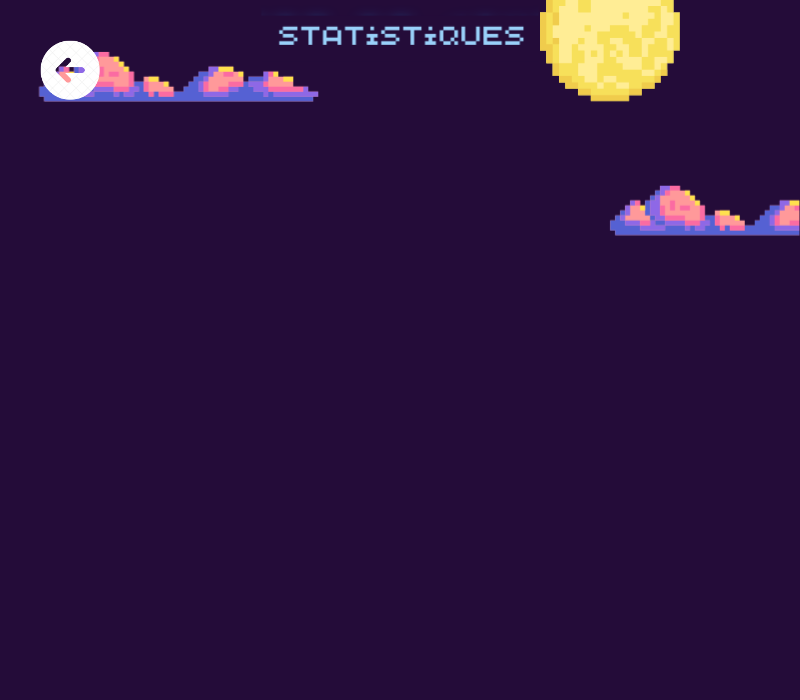
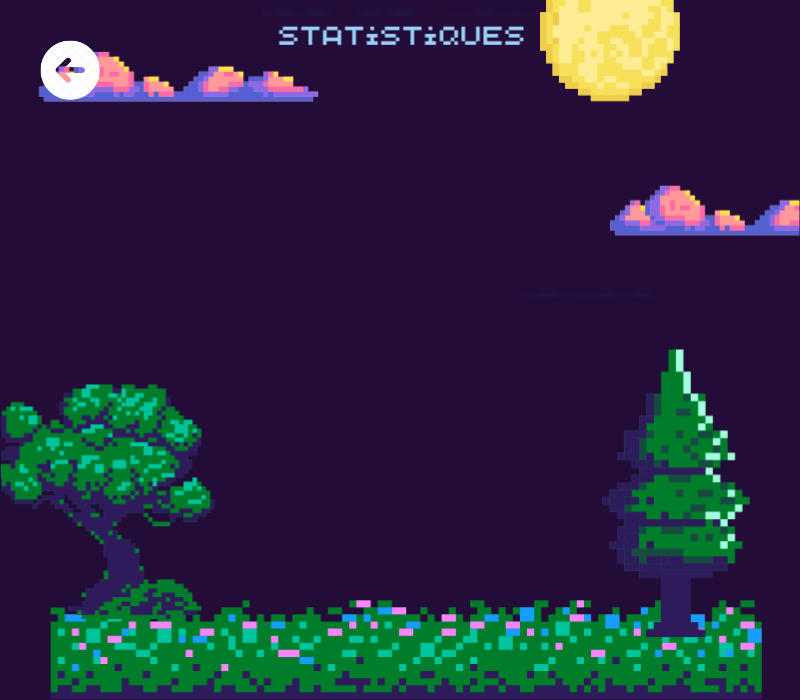
récupération des données pour l'affichage du menu et fonction de moyenne pour le menu avec le design

Changed region(s): [[0.0, 0.48, 0.9688, 1.0]]

diff --git a/classe/jeu/interfaces.py b/classe/jeu/interfaces.py
@@ -5,6 +5,8 @@ import pygame
 from classe.visuel import image, couleur, rectangle, texte
 from classe.jeu import plateau, de
 from classe.personnage import joueur
+from decimal import Decimal
+
 
 class Interface:
     """La classe Interface est une classe qui permet de gérer les pages."""
@@ -127,25 +129,7 @@ class Interface:
         else:
             self.get_liste_joueur().pop(joueur.get_id())
     
-    def Page_demarrage(self, nb_tour, 
-                                    nb_pv_j1_final,
-                                    nb_pv_j2_final ,
-                                    nb_pv_j3_final,
-                                    nb_pv_j4_final,
-                                    nb_cle_j1,
-                                    nb_cle_j2,
-                                    nb_cle_j3,
-                                    nb_cle_j4,
-                                    nb_combat_j1,
-                                    nb_combat_j2,
-                                    nb_combat_j3,
-                                    nb_combat_j4,
-                                    pv_moy_j1_final,
-                                    pv_moy_j2_final,
-                                    pv_moy_j3_final,
-                                    pv_moy_j4_final,
-                                    nombre_case_decouverte,
-                                    nb_mort):    
+    def Page_demarrage(self, donnees_bdd):    
         # Affiche l'image de fond 
         image.Image(0,0,'assets/img/illustrations/Page_demarrage.png').affichage_image_redimensionnee(800, 700,self.get_fenetre())    
         # Mettre à jour l'affichage
@@ -159,36 +143,18 @@ class Interface:
                 # Si le joueur clique sur le bouton, on passe à la prochaine page "introduction"
                 if (event.type == pygame.MOUSEBUTTONDOWN):
                     if (320 <= mouse_x <= 470 and 500 <= mouse_y <= 550) : # si appuie bouton stats
-                        self.Page2_statistiques(nb_tour, 
-                                    nb_pv_j1_final,
-                                    nb_pv_j2_final ,
-                                    nb_pv_j3_final,
-                                    nb_pv_j4_final,
-                                    nb_cle_j1,
-                                    nb_cle_j2,
-                                    nb_cle_j3,
-                                    nb_cle_j4,
-                                    nb_combat_j1,
-                                    nb_combat_j2,
-                                    nb_combat_j3,
-                                    nb_combat_j4,
-                                    pv_moy_j1_final,
-                                    pv_moy_j2_final,
-                                    pv_moy_j3_final,
-                                    pv_moy_j4_final,
-                                    nombre_case_decouverte,
-                                    nb_mort)
+                        self.Page_statistiques(donnees_bdd)
                     if (170 <= mouse_x <= 350 and 550 <= mouse_y <= 600) : # si appuie bouton en local
-                        self.Page_nb_joueur()
+                        self.Page_nb_joueur(donnees_bdd)
                     if (450 <= mouse_x <= 630 and 550 <= mouse_y <= 600) : # si appuie bouton en ligne
                         self.set_jeuHlouEL("EL")
-                        self.Page_nb_joueur()
+                        self.Page_nb_joueur(donnees_bdd)
                     if 700 <= mouse_x <= 764 and 25 <= mouse_y <= 89 : # si appuie sur info
                         image.Image(0,0,'assets/img/illustrations/Page_commentjouer.png').affichage_image_redimensionnee(800, 700,self.get_fenetre())
                         # Mettre à jour l'affichage
                         pygame.display.update()
                     if (10 <= mouse_x <= 70 and 630 <= mouse_y <= 690): # si appuie sur fleche retour
-                        self.Page_demarrage()
+                        self.Page_demarrage(donnees_bdd)
                 # Si le joueur quitte la fenetre
                 if (event.type == pygame.QUIT):
                     pygame.quit()
@@ -234,12 +200,64 @@ class Interface:
                 
         # Mettre à jour l'affichage
         pygame.display.update()
-    
-    def Page_statistiques(self, nombre_cases_decouvertes):    
-        # Affiche l'image de fond 
-        image.Image(0,0,'assets/img/illustrations/Page_statistiques.png').affichage_image_redimensionnee(800, 700,self.get_fenetre())
+        
 
-        texte.Texte("Cases découvertes : {}".format(nombre_cases_decouvertes), couleur.Couleur().get_Blanc(), 100, 100).affiche(self.get_police(), self.get_fenetre())
+    def calculer_moyennes(self, donnees):
+        nombre_de_lignes = len(donnees)
+        if nombre_de_lignes == 0:
+            return []
+        
+        # Sommes initiales
+        sommes = [0] * len(donnees[0])
+        
+        for ligne in donnees:
+            for i, valeur in enumerate(ligne):
+                sommes[i] += valeur
+        
+        # Calcul des moyennes
+        moyennes = [somme / nombre_de_lignes for somme in sommes]
+        return moyennes
+
+    def Page_statistiques(self, donnees_bdd):
+        # Affiche l'image de fond 
+        image.Image(0,0,'assets/img/illustrations/Page1_statistiques.png').affichage_image_redimensionnee(800, 700,self.get_fenetre())
+
+        moyennes = self.calculer_moyennes(donnees_bdd)
+
+        labels = [
+            "Cases découvertes", 
+            "Manches effectuées", "Morts", "Clés récupérées", 
+            "Boss vaincus", "PV moyen"
+        ]
+
+        # Affichage des statistiques par groupe de 3
+        y1 = 170
+        y2 = 200
+
+        # Première moitié des statistiques
+        for i in range(len(labels) // 2):
+            label = labels[i]
+            moyenne = moyennes[i]
+
+            texte.Texte(f"{label}", couleur.Couleur().get_Blanc(), 200, y1).affiche(self.get_police(), self.get_fenetre())
+            texte.Texte(f"{moyenne:.2f}", couleur.Couleur().get_Blanc(), 230, y2).affiche(self.get_police(), self.get_fenetre())
+
+            y1 += 100
+            y2 += 100
+
+        # Seconde moitié des statistiques
+        y1 = 170
+        y2 = 200
+
+        for i in range(len(labels) // 2, len(labels)):
+            label = labels[i]
+            moyenne = moyennes[i]
+
+            texte.Texte(f"{label}", couleur.Couleur().get_Blanc(), 500, y1).affiche(self.get_police(), self.get_fenetre())
+            texte.Texte(f"{moyenne:.2f}", couleur.Couleur().get_Blanc(), 530, y2).affiche(self.get_police(), self.get_fenetre())
+
+            y1 += 100
+            y2 += 100
 
         # Mettre à jour l'affichage
         pygame.display.update()
@@ -254,7 +272,7 @@ class Interface:
                 # Si le joueur clique sur le bouton, on passe à la prochaine page "introduction"
                 if (event.type == pygame.MOUSEBUTTONDOWN):
                     if (40 <= mouse_x <= 100 and 40 <= mouse_y <= 100): # si appuie sur fleche retour
-                        self.Page_demarrage(nombre_cases_decouvertes)
+                        self.Page_demarrage(donnees_bdd)
                         stats = True
                 # Si le joueur quitte la fenetre
                 if (event.type == pygame.QUIT):
@@ -315,7 +333,7 @@ class Interface:
                     pygame.quit()
                     exit()
 
-    def Page_nb_joueur(self):
+    def Page_nb_joueur(self, donnees_bdd):
         self.set_nb_joueur(0)
 
         image.Image(0,0,'assets/img/illustrations/Page_nbjoueurs.png').affichage_image_redimensionnee(800, 700,self.get_fenetre())
@@ -342,7 +360,7 @@ class Interface:
                     mouse_x, mouse_y = pygame.mouse.get_pos() # Recuperer les coordonnees de la souris
                     if (40 <= mouse_x <= 100 and 40 <= mouse_y <= 100) : # si appuie bouton play
                         self.set_nb_joueur(-1)
-                        self.Page_demarrage()
+                        self.Page_demarrage(donnees_bdd)
                     # Si le personnage sur lequel on clique est J2   
                     if 500 <= mouse_x <= 600 and 582 <= mouse_y <= 652 :
                         self.set_nb_joueur(2)
@@ -689,7 +707,8 @@ class Interface:
                                     pv_moy_j3,
                                     pv_moy_j4,
                                     nombre_case_decouverte,
-                                    nb_mort):
+                                    nb_mort,
+                                    donnees_bdd):
         # Page de la sorcière quan don a réussi le jeu
         image.Image(0,0,'assets/img/illustrations/Page_maisonsorciere.png').affichage_image_redimensionnee(800, 700,self.get_fenetre())
         self.Menu_bas(joueur)
@@ -763,7 +782,8 @@ class Interface:
                                     pv_moy_j3,
                                     pv_moy_j4,
                                     nombre_case_decouverte,
-                                    nb_mort)
+                                    nb_mort,
+                                    donnees_bdd)
                         #self.Menu_bas(joueur)
                         #texte.Texte("Tu as terminé le jeu bravo à toi jeune aventurier",couleur.Couleur().get_Noir(),110,600).affiche(self.get_police(),self.get_fenetre())
                         #texte.Texte("Tu es le premier a t'être libéré du sort !!",couleur.Couleur().get_Noir(),110,620).affiche(self.get_police(),self.get_fenetre())
@@ -895,7 +915,8 @@ class Interface:
                                     pv_moy_j3_final,
                                     pv_moy_j4_final,
                                     nombre_case_decouverte,
-                                    nb_mort):    
+                                    nb_mort,
+                                    donnees_bdd):    
         # Affiche l'image de fond 
         image.Image(0,0,'assets/img/illustrations/Page_findujeu.png').affichage_image_redimensionnee(800, 700,self.get_fenetre())
         # Mettre à jour l'affichage
@@ -930,7 +951,8 @@ class Interface:
                                     pv_moy_j3_final,
                                     pv_moy_j4_final,
                                     nombre_case_decouverte,
-                                    nb_mort)
+                                    nb_mort, 
+                                    donnees_bdd)
                 # Si le joueur quitte la fenetre
                 if (event.type == pygame.QUIT):
                     pygame.quit()
@@ -938,7 +960,7 @@ class Interface:
 
     def Page2_statistiques(self,    nb_tour, 
                                     nb_pv_j1_final,
-                                    nb_pv_j2_final ,
+                                    nb_pv_j2_final,
                                     nb_pv_j3_final,
                                     nb_pv_j4_final,
                                     nb_cle_j1,
@@ -954,9 +976,10 @@ class Interface:
                                     pv_moy_j3_final,
                                     pv_moy_j4_final,
                                     nombre_case_decouverte,
-                                    nb_mort):    
+                                    nb_mort,
+                                    donnees_bdd):
         # Affiche l'image de fond 
-        image.Image(0,0,'assets/img/illustrations/Page_statistiques.png').affichage_image_redimensionnee(800, 700,self.get_fenetre())
+        image.Image(0,0,'assets/img/illustrations/Page2_statistiques.png').affichage_image_redimensionnee(800, 700,self.get_fenetre())
 
         texte.Texte("Joueur 1", couleur.Couleur().get_Blanc(), 100, 100).affiche(self.get_police(), self.get_fenetre())
         texte.Texte("Nombre de clé : {}".format(nb_cle_j1), couleur.Couleur().get_Blanc(), 100, 150).affiche(self.get_police(), self.get_fenetre())
@@ -998,25 +1021,7 @@ class Interface:
                 # Si le joueur clique sur le bouton, on passe à la prochaine page "introduction"
                 if (event.type == pygame.MOUSEBUTTONDOWN):
                     if (40 <= mouse_x <= 100 and 40 <= mouse_y <= 100): # si appuie sur fleche retour
-                        self.Page_demarrage(nb_tour, 
-                                    nb_pv_j1_final,
-                                    nb_pv_j2_final ,
-                                    nb_pv_j3_final,
-                                    nb_pv_j4_final,
-                                    nb_cle_j1,
-                                    nb_cle_j2,
-                                    nb_cle_j3,
-                                    nb_cle_j4,
-                                    nb_combat_j1,
-                                    nb_combat_j2,
-                                    nb_combat_j3,
-                                    nb_combat_j4,
-                                    pv_moy_j1_final,
-                                    pv_moy_j2_final,
-                                    pv_moy_j3_final,
-                                    pv_moy_j4_final,
-                                    nombre_case_decouverte,
-                                    nb_mort)
+                        self.Page_demarrage(donnees_bdd)
                         stats = True
                 # Si le joueur quitte la fenetre
                 if (event.type == pygame.QUIT):

diff --git a/main.py b/main.py
@@ -34,7 +34,9 @@ if __name__ == "__main__":
     # Initialisation de Pygame
     pygame.init()
 
-    nombre_cases_decouvertes = nbCases()
+    stat = recuperer_donnees_bdd()
+    print(stat)
+
     nb_tour = 0
     nb_pv_j1 = []
     nb_pv_j2 = []
@@ -63,27 +65,12 @@ if __name__ == "__main__":
     pv_moy_j3_final = sum(nb_pv_j3) / len(nb_pv_j3) if nb_pv_j3 else 0
     nb_pv_j4_final = nb_pv_j4[-1] if nb_pv_j4 else 0
     pv_moy_j4_final = sum(nb_pv_j4) / len(nb_pv_j4) if nb_pv_j4 else 0
-    
+
+
+    donnees_bdd = recuperer_donnees_bdd()
+
     page = interfaces.Interface()
-    page.Page_demarrage(nb_tour, 
-                                    nb_pv_j1_final,
-                                    nb_pv_j2_final ,
-                                    nb_pv_j3_final,
-                                    nb_pv_j4_final,
-                                    nb_cle_j1,
-                                    nb_cle_j2,
-                                    nb_cle_j3,
-                                    nb_cle_j4,
-                                    nb_combat_j1,
-                                    nb_combat_j2,
-                                    nb_combat_j3,
-                                    nb_combat_j4,
-                                    pv_moy_j1_final,
-                                    pv_moy_j2_final,
-                                    pv_moy_j3_final,
-                                    pv_moy_j4_final,
-                                    nombre_case_decouverte,
-                                    nb_mort)
+    page.Page_demarrage(donnees_bdd)
     # Pour tous les joueurs encore en vie
     while page.get_etat_de_jeu() != "fin_du_jeu": 
         print(nombre_case_decouverte)
@@ -93,7 +80,7 @@ if __name__ == "__main__":
                 for numero_joueur in range(page.get_nb_joueur()):
                     # Afficher la proposition pour choisir le personnage
                     prenom, element = page.Page_choixperso(numero_joueur)
-                    un_joueur = joueur.Joueur(numero_joueur,prenom,element,page.get_plateau_de_jeu().get_case_jaune()[0],page.get_plateau_de_jeu().get_case_jaune()[1],700,110,["cle de la Forêt", "cle de la Ville", "cle du Rocher", "cle de la Rivière"])
+                    un_joueur = joueur.Joueur(numero_joueur,prenom,element,page.get_plateau_de_jeu().get_case_jaune()[0],page.get_plateau_de_jeu().get_case_jaune()[1],700,110,["cle du Rocher", "cle de la Rivière"])
                     page.set_liste_joueur(page.get_liste_joueur() + [[un_joueur.get_id(), un_joueur.get_prenom(), un_joueur.get_element(), un_joueur.get_plateaux(), un_joueur.get_plateauy(), un_joueur.get_pv(), un_joueur.get_attaque(), un_joueur.get_inventaire()]])
                     page.Page_premier_mouvement(un_joueur)
                     page.get_plateau_de_jeu().plateau_cache(page)
@@ -110,11 +97,13 @@ if __name__ == "__main__":
             nb_tour += 1
             pv_joueurs = { 'Pierre': None, 'Flora': None, 'Ondine': None, 'Kevin': None }
             combat_joueur = { 'Pierre': None, 'Flora': None, 'Ondine': None, 'Kevin': None }
+            cles_joueurs = { 'Pierre': 0, 'Flora': 0, 'Ondine': 0, 'Kevin': 0 }
 
             for joueur_data in page.get_liste_joueur():
                 un_joueur = joueur.Joueur(joueur_data[0], joueur_data[1], joueur_data[2], joueur_data[3], joueur_data[4], joueur_data[5], joueur_data[6], joueur_data[7])
                 pv_joueurs[un_joueur.get_prenom()] = un_joueur.get_pv()
                 combat_joueur[un_joueur.get_prenom()] = un_joueur.get_attaque()
+                cles_joueurs[un_joueur.get_prenom()] = len(un_joueur.get_inventaire())
 
             if pv_joueurs['Pierre'] is not None:
                 nb_pv_j1.append(pv_joueurs['Pierre'])
@@ -128,6 +117,11 @@ if __name__ == "__main__":
             if pv_joueurs['Kevin'] is not None:
                 nb_pv_j4.append(pv_joueurs['Kevin'])
                 nb_combat_j4 += combat_joueur["Kevin"]
+
+            nb_cle_j1 = cles_joueurs['Pierre']
+            nb_cle_j2 = cles_joueurs['Flora']
+            nb_cle_j3 = cles_joueurs['Ondine']
+            nb_cle_j4 = cles_joueurs['Kevin']
 
             nb_pv_j1_final = nb_pv_j1[-1] if nb_pv_j1 else 0
             pv_moy_j1_final = sum(nb_pv_j1) / len(nb_pv_j1) if nb_pv_j1 else 0
@@ -148,6 +142,10 @@ if __name__ == "__main__":
             print(f"Nb combat du joueur 2 : {nb_combat_j2}"),
             print(f"Nb combat du joueur 3 : {nb_combat_j3}"),
             print(f"Nb combat du joueur 4 : {nb_combat_j4}"),
+            print(f"Nb de clé du joueur 1 : {nb_cle_j1}"),
+            print(f"Nb de clé du joueur 2 : {nb_cle_j2}"),
+            print(f"Nb de clé du joueur 3 : {nb_cle_j3}"),
+            print(f"Nb de clé du joueur 4 : {nb_cle_j4}"),
             print(f"Nombre de cases découvertes : {nombre_case_decouverte}"),
             if page.get_liste_joueur() != []:
                 for i in page.get_liste_joueur():
@@ -230,9 +228,8 @@ if __name__ == "__main__":
                     nb_combat_j1 if un_joueur.get_prenom() == 'Pierre' else nb_combat_j2 if un_joueur.get_prenom() == 'Flora' else nb_combat_j3 if un_joueur.get_prenom() == 'Ondine' else nb_combat_j4,
                     pv_moy_j1_final if un_joueur.get_prenom() == 'Pierre' else pv_moy_j2_final if un_joueur.get_prenom() == 'Flora' else pv_moy_j3_final if un_joueur.get_prenom() == 'Ondine' else pv_moy_j4_final,
                 )
-            
-            stat = recuperer_donnees_bdd(partie_id)
-            print(stat)
+
+            donnees_bdd = recuperer_donnees_bdd()
 
             if un_joueur.a_gagne(page.get_plateau_de_jeu()) == True:
                 un_joueur.set_inventaire([])
@@ -255,7 +252,8 @@ if __name__ == "__main__":
                                     pv_moy_j3_final,
                                     pv_moy_j4_final,
                                     nombre_case_decouverte,
-                                    nb_mort
+                                    nb_mort,
+                                    donnees_bdd
                                 )
                 pygame.quit()
             else:
@@ -279,7 +277,8 @@ if __name__ == "__main__":
                                     pv_moy_j3_final,
                                     pv_moy_j4_final,
                                     nombre_case_decouverte,
-                                    nb_mort)
+                                    nb_mort,
+                                    donnees_bdd)
                 # Dessiner la partie basse
                 pygame.draw.rect(page.get_fenetre(),page.get_couleur().get_Gris(),(10,580,780,102))
                 texte.Texte("Aucun des joueurs n'a réussi à finir le jeu",couleur.Couleur().get_Noir(),30,600).affiche(page.get_police(),page.get_fenetre())

diff --git a/database.py b/database.py
@@ -30,9 +30,9 @@ def creer_partie(gagnant):
         cur.close()
         return partie_id
 
-def recuperer_donnees_bdd(partie_id):
+def recuperer_donnees_bdd():
         cur = conn.cursor()
-        cur.execute("SELECT * FROM statistiques WHERE partie_id = %s", (partie_id,))
+        cur.execute("SELECT * FROM statistiques")
         donnees = cur.fetchall()
         cur.close()
         return donnees
